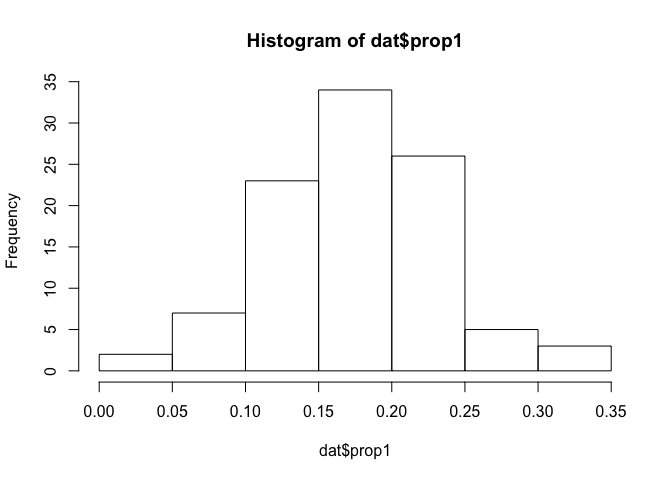
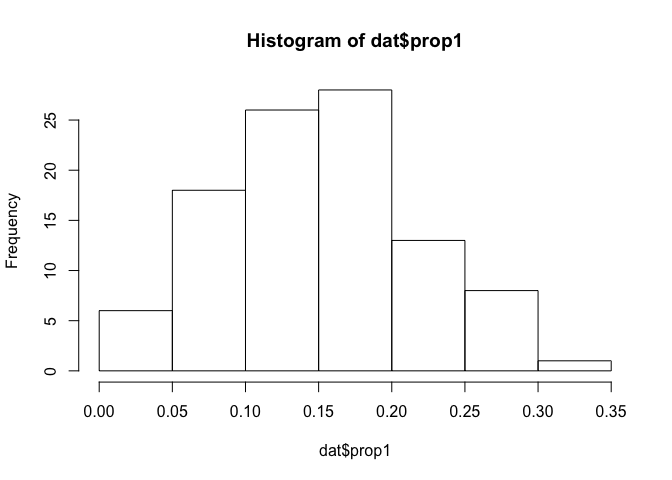
added bernoulli (1|omega) statement.

diff --git a/modeling_proportions.md b/modeling_proportions.md
@@ -167,19 +167,19 @@ head(beta_fit_data)
 ```
 
     ##   alpha[1] alpha[2] alpha[3]  beta[1]  beta[2]  beta[3] post_prop[1]
-    ## 1 6.976911 19.38307 22.05444 35.74443 40.38022 22.76318   0.07184450
-    ## 2 6.395753 20.83099 24.16112 32.26256 41.84124 24.89541   0.19115218
-    ## 3 8.127483 12.40731 29.37913 35.68489 25.41039 30.25857   0.08616504
-    ## 4 7.069402 15.21709 24.23062 34.49364 30.38814 24.53504   0.17643562
-    ## 5 6.142265 15.76343 22.71116 28.44262 29.54166 23.06247   0.12107980
-    ## 6 9.353832 15.12979 28.42157 42.93246 30.19491 29.51343   0.09762679
+    ## 1 3.686227 14.28663 23.93269 22.87811 28.45204 22.71477   0.07370162
+    ## 2 2.805610 12.81449 27.47124 15.00407 24.14009 26.10163   0.26901928
+    ## 3 2.756624 12.89066 26.52965 16.50938 25.44693 25.81707   0.19769670
+    ## 4 2.900504 13.49170 27.59737 16.50684 25.34911 25.30698   0.04379937
+    ## 5 2.781708 13.05583 26.98126 17.30732 25.18512 26.04744   0.10583292
+    ## 6 2.758700 13.29018 22.77536 14.74971 25.33045 21.83547   0.22502441
     ##   post_prop[2] post_prop[3]     lp__       sum
-    ## 1    0.2853191    0.5885699 406.7397 0.9457335
-    ## 2    0.3029284    0.4687990 407.4410 0.9628796
-    ## 3    0.2003129    0.4103938 407.2363 0.6968717
-    ## 4    0.4532992    0.4964465 410.3372 1.1261813
-    ## 5    0.3918609    0.4189066 406.8965 0.9318473
-    ## 6    0.3580073    0.5586215 408.5053 1.0142556
+    ## 1    0.3579896    0.4086897 372.2950 0.8403809
+    ## 2    0.2737691    0.5406048 373.1145 1.0833932
+    ## 3    0.2900235    0.5607954 373.9838 1.0485156
+    ## 4    0.3135446    0.5214722 372.7401 0.8788161
+    ## 5    0.3464666    0.5471145 373.6400 0.9994140
+    ## 6    0.3354316    0.5928963 373.8378 1.1533523
 
 We have to think more about how we can specify the model to address this problem. One idea is to model the data as a simplex.
 
@@ -225,19 +225,19 @@ head(beta_fit_simplex_data)
 ```
 
     ##   alpha[1] alpha[2] alpha[3]  beta[1]  beta[2]  beta[3] post_prop[1]
-    ## 1 6.463574 13.49425 19.66597 28.34040 28.98190 20.34179   0.15350301
-    ## 2 6.277564 10.62480 18.83519 27.27675 22.86267 18.85310   0.20363468
-    ## 3 5.891929 10.46592 19.99842 27.78927 22.36508 20.08185   0.18523497
-    ## 4 5.843367 11.43876 20.70803 26.75313 21.98316 20.74350   0.09978294
-    ## 5 6.236242 11.22164 21.78641 29.95809 24.33773 21.78823   0.17175471
-    ## 6 8.475050 18.76393 27.46420 40.96505 35.56680 28.60661   0.14787620
+    ## 1 2.392360 13.44488 21.89301 15.92764 25.51617 20.86260   0.02645556
+    ## 2 3.093494 12.14473 22.56440 15.84952 23.54645 22.09114   0.26927369
+    ## 3 3.195788 10.00142 24.80488 19.94809 19.23144 23.39682   0.05536782
+    ## 4 3.098470 15.80180 21.50509 16.75784 31.16780 21.10179   0.06615303
+    ## 5 3.059734 15.06887 21.61852 20.70717 29.94420 20.82186   0.23059477
+    ## 6 3.372046 13.67097 23.69533 17.06772 27.00988 21.95770   0.30212124
     ##   post_prop[2] post_prop[3]     lp__       sum
-    ## 1    0.3868176    0.5192880 405.9125 1.0596086
-    ## 2    0.3273703    0.5801336 401.4891 1.1111386
-    ## 3    0.3808497    0.5056809 403.3795 1.0717656
-    ## 4    0.2630641    0.5994266 404.3224 0.9622737
-    ## 5    0.3080784    0.5302770 404.8635 1.0101101
-    ## 6    0.3310511    0.4569854 406.6144 0.9359128
+    ## 1    0.3492214    0.5507441 370.8932 0.9264211
+    ## 2    0.3216912    0.5376146 372.4458 1.1285795
+    ## 3    0.2820828    0.4525563 370.8560 0.7900069
+    ## 4    0.3664421    0.4847681 373.4955 0.9173632
+    ## 5    0.4265650    0.4459182 370.4425 1.1030780
+    ## 6    0.1859899    0.3483127 371.5091 0.8364238
 
 Nope, that didn't work. However, because we know the data is a simplex, that means we only need to model p-1 parameters. If we define a beta distribution for the first and second, the third is given. This means we only need to sample two parameters, and the third will be what's left over, ensuring our posterior predictions sum to 1.
 
@@ -354,16 +354,16 @@ print(beta_fit_x)
     ## post-warmup draws per chain=1000, total post-warmup draws=4000.
     ## 
     ##                mean se_mean   sd   2.5%    25%    50%    75%  97.5% n_eff
-    ## alpha2        16.01    0.05 2.28  12.00  14.43  15.88  17.42  20.74  1935
-    ## beta2         32.43    0.11 4.66  24.03  29.26  32.20  35.31  42.18  1932
-    ## phi           38.89    0.10 5.52  28.75  35.12  38.56  42.41  50.70  2938
-    ## mu             0.15    0.00 0.01   0.14   0.15   0.15   0.16   0.17  2929
-    ## b              0.40    0.00 0.04   0.32   0.37   0.40   0.43   0.49  3052
-    ## alpha1         6.01    0.02 0.95   4.27   5.35   5.95   6.61   8.02  2759
-    ## beta1         32.88    0.08 4.60  24.39  29.77  32.60  35.82  42.77  2984
-    ## post_prop[1]   0.15    0.00 0.06   0.06   0.11   0.15   0.19   0.28  4000
-    ## post_prop[2]   0.33    0.00 0.07   0.20   0.28   0.33   0.37   0.47  4000
-    ## lp__         346.10    0.04 1.64 341.95 345.27 346.45 347.31 348.27  1575
+    ## alpha2        14.01    0.05 1.95  10.49  12.65  13.92  15.27  18.11  1597
+    ## beta2         27.16    0.09 3.80  20.26  24.52  26.99  29.56  35.25  1610
+    ## phi           18.76    0.06 2.69  13.89  16.83  18.65  20.57  24.17  2321
+    ## mu             0.10    0.00 0.01   0.08   0.10   0.10   0.11   0.12  1807
+    ## b              0.73    0.00 0.10   0.56   0.66   0.72   0.79   0.96  1724
+    ## alpha1         1.92    0.01 0.38   1.22   1.65   1.90   2.18   2.70  1874
+    ## beta1         16.83    0.05 2.34  12.58  15.19  16.73  18.42  21.53  2433
+    ## post_prop[1]   0.10    0.00 0.07   0.01   0.05   0.09   0.14   0.28  3942
+    ## post_prop[2]   0.34    0.00 0.07   0.20   0.29   0.34   0.39   0.49  3034
+    ## lp__         330.96    0.04 1.60 326.92 330.17 331.31 332.11 333.07  1339
     ##              Rhat
     ## alpha2          1
     ## beta2           1
@@ -376,7 +376,7 @@ print(beta_fit_x)
     ## post_prop[2]    1
     ## lp__            1
     ## 
-    ## Samples were drawn using NUTS(diag_e) at Wed Oct 18 14:25:47 2017.
+    ## Samples were drawn using NUTS(diag_e) at Wed Oct 18 14:36:56 2017.
     ## For each parameter, n_eff is a crude measure of effective sample size,
     ## and Rhat is the potential scale reduction factor on split chains (at 
     ## convergence, Rhat=1).
@@ -440,9 +440,10 @@ transformed parameters{
 model{
 for (i in 1:N) {
 if (prop[i,1] == 0) {
-target += bernoulli_lpmf(0 | omega);
+  target += bernoulli_lpmf(0 | omega);
 }
 else{
+  target += bernoulli_lpmf(1 | omega);
   target += exponential_lpdf(mu | b * x[i]);
   target += beta_lpdf(prop[i,1] | alpha1, beta1);
   target += beta_lpdf(prop[i,2] | alpha2, beta2);
@@ -464,22 +465,22 @@ beta_fit_mixture <- sampling(beta_model_mixture, data = dat_mixture)
 print(beta_fit_mixture)
 ```
 
-    ## Inference for Stan model: d470823aa729614db9cf49edb7ba4b66.
+    ## Inference for Stan model: 0c9dba1404091d8ddf91d2af8ba83988.
     ## 4 chains, each with iter=2000; warmup=1000; thin=1; 
     ## post-warmup draws per chain=1000, total post-warmup draws=4000.
     ## 
     ##                mean se_mean   sd   2.5%    25%    50%    75%  97.5% n_eff
-    ## omega          0.34    0.00 0.24   0.02   0.14   0.30   0.50   0.84  4000
-    ## alpha2        16.03    0.05 2.20  12.06  14.52  15.92  17.48  20.67  1937
-    ## beta2         32.37    0.10 4.45  24.36  29.27  32.14  35.29  41.86  1966
-    ## phi           38.90    0.10 5.54  28.66  35.08  38.69  42.36  50.30  3211
-    ## mu             0.15    0.00 0.01   0.14   0.15   0.15   0.16   0.17  2783
-    ## b              0.40    0.00 0.04   0.32   0.37   0.40   0.43   0.50  3068
-    ## alpha1         5.99    0.02 0.95   4.22   5.34   5.93   6.60   7.95  2885
-    ## beta1         32.90    0.08 4.62  24.38  29.68  32.74  35.79  42.47  3292
-    ## post_prop[1]   0.15    0.00 0.06   0.06   0.11   0.15   0.19   0.28  3827
-    ## post_prop[2]   0.33    0.00 0.07   0.20   0.28   0.33   0.38   0.47  4000
-    ## lp__         340.41    0.04 1.72 336.25 339.53 340.72 341.68 342.83  1471
+    ## omega          0.98    0.00 0.01   0.95   0.97   0.98   0.99   1.00  3530
+    ## alpha2        13.83    0.04 1.94  10.29  12.46  13.79  15.09  17.71  2101
+    ## beta2         26.79    0.08 3.79  19.85  24.13  26.69  29.28  34.36  2136
+    ## phi           18.42    0.05 2.74  13.44  16.49  18.25  20.13  24.14  2576
+    ## mu             0.10    0.00 0.01   0.08   0.09   0.10   0.11   0.12  1998
+    ## b              0.74    0.00 0.10   0.56   0.67   0.73   0.80   0.96  2005
+    ## alpha1         1.87    0.01 0.39   1.19   1.60   1.85   2.12   2.70  1932
+    ## beta1         16.54    0.05 2.39  12.24  14.88  16.41  18.03  21.47  2803
+    ## post_prop[1]   0.10    0.00 0.07   0.01   0.05   0.09   0.14   0.27  4000
+    ## post_prop[2]   0.34    0.00 0.07   0.21   0.29   0.34   0.39   0.50  3741
+    ## lp__         316.50    0.04 1.76 312.28 315.55 316.83 317.79 318.96  1650
     ##              Rhat
     ## omega           1
     ## alpha2          1
@@ -493,7 +494,7 @@ print(beta_fit_mixture)
     ## post_prop[2]    1
     ## lp__            1
     ## 
-    ## Samples were drawn using NUTS(diag_e) at Wed Oct 18 14:27:46 2017.
+    ## Samples were drawn using NUTS(diag_e) at Wed Oct 18 14:38:45 2017.
     ## For each parameter, n_eff is a crude measure of effective sample size,
     ## and Rhat is the potential scale reduction factor on split chains (at 
     ## convergence, Rhat=1).
